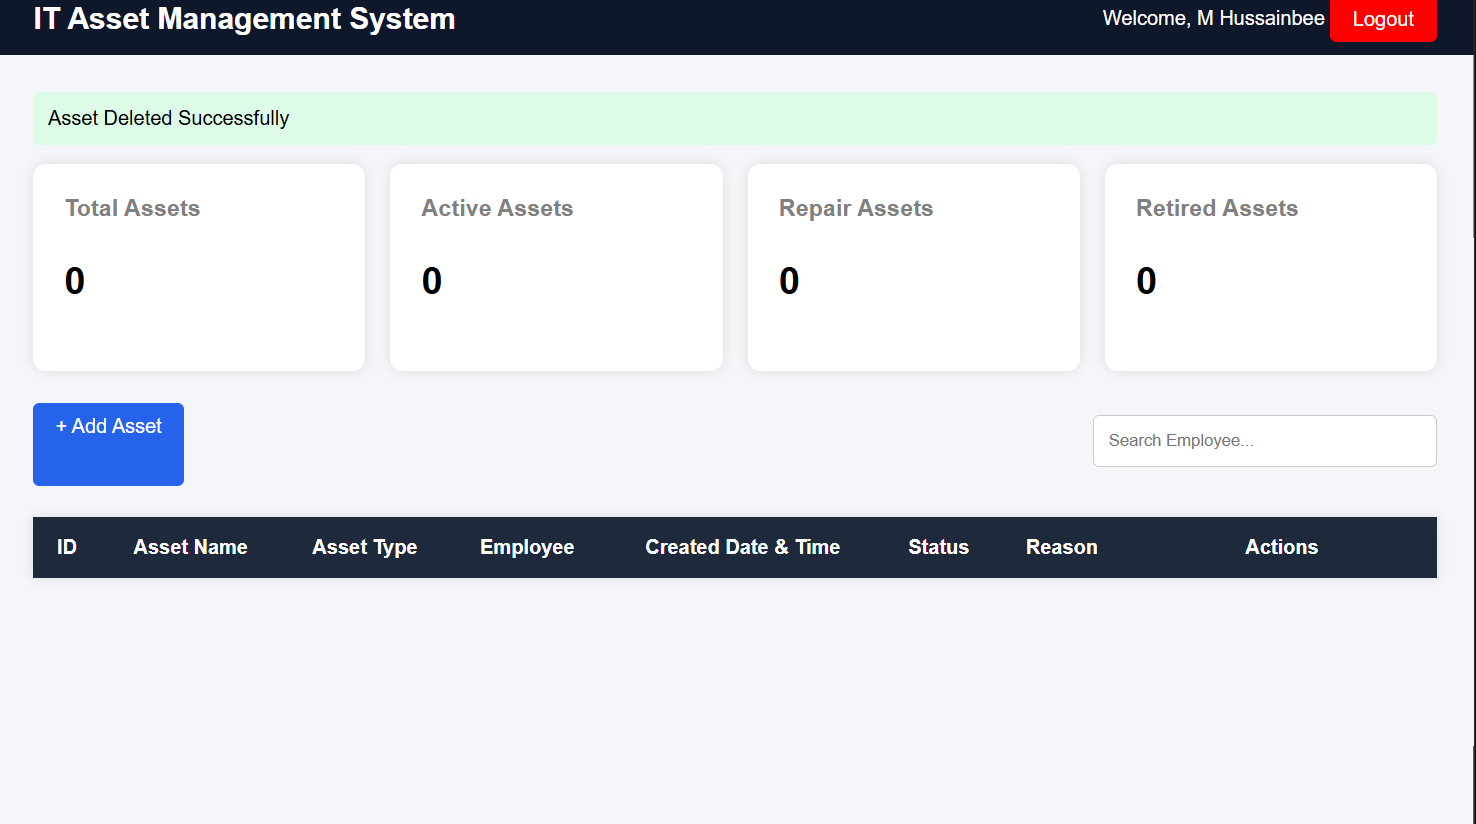
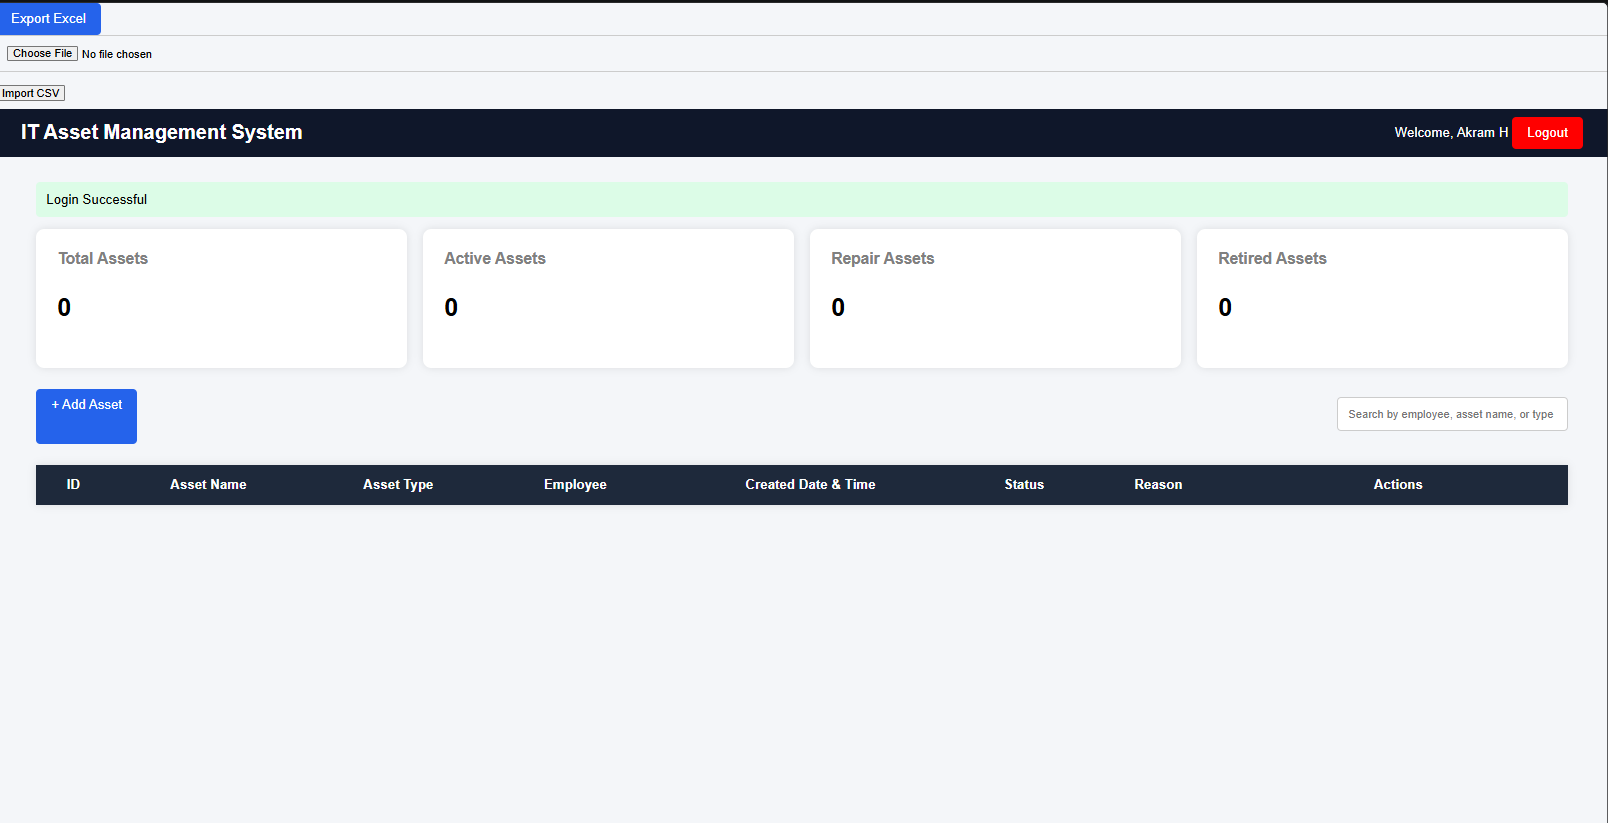
Updated README and screenshots

diff --git a/README.md b/README.md
@@ -189,12 +189,11 @@ This project is licensed under the MIT License.
 
 ---
 
-#  Author
+### Hussain bee & Akram Hussain
 
-**Akram Hussain** & **Hussain bee**
-Python Developer | Flask Developer | Data Pipeline Enthusiast
+Aspiring Software Developer passionate about
 
----
+Python Development | Web Technologies | AI Development | Artificial Intelligence
 
 #  Acknowledgement
 
